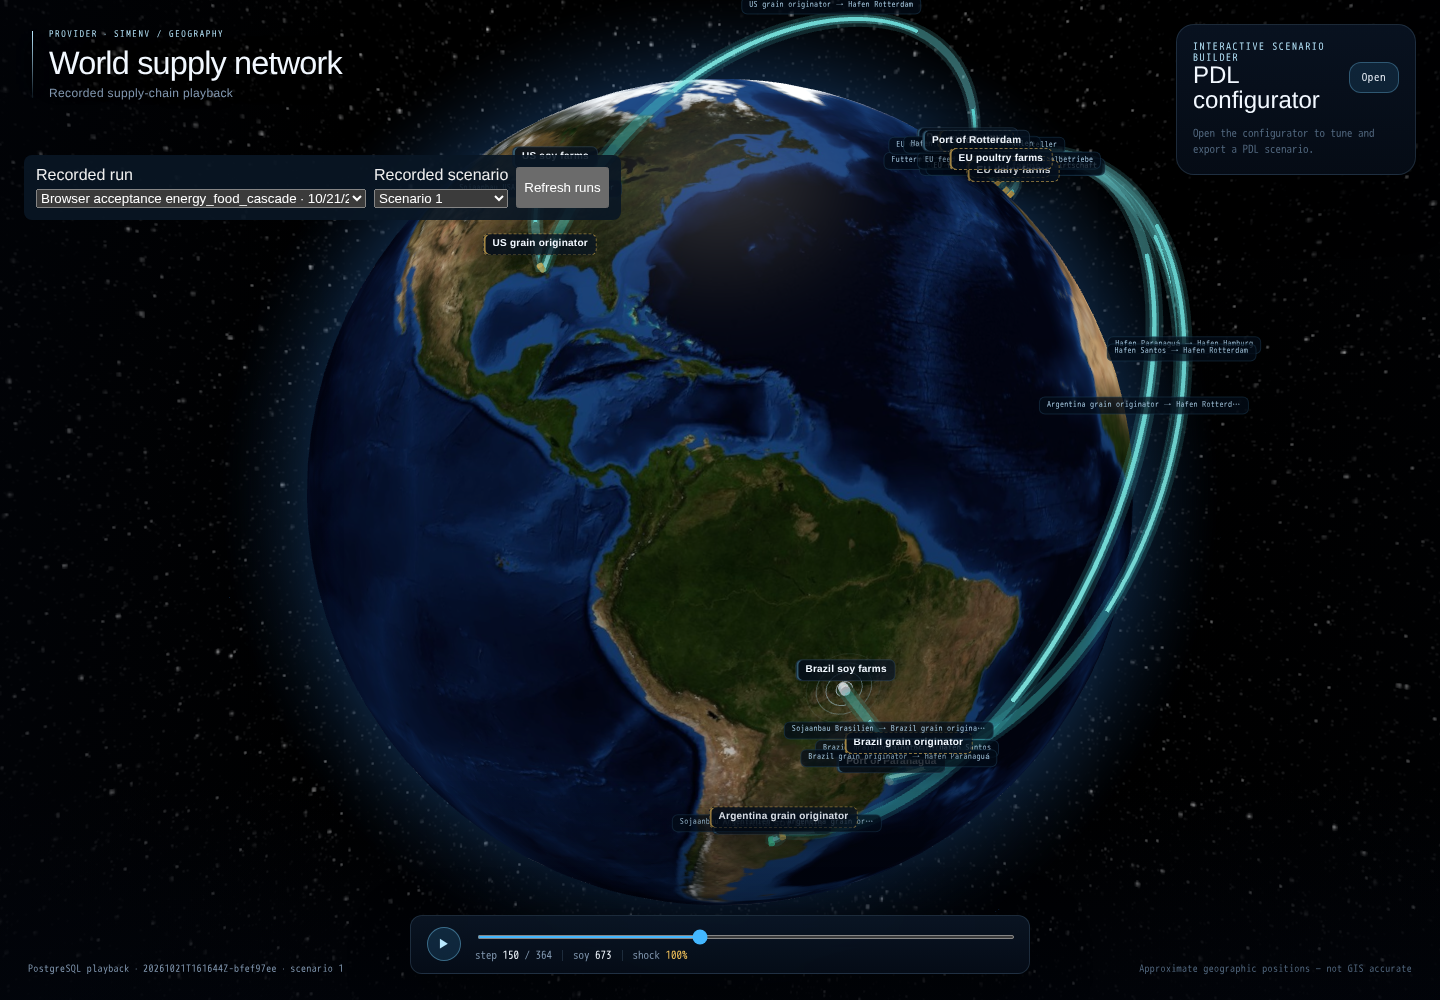
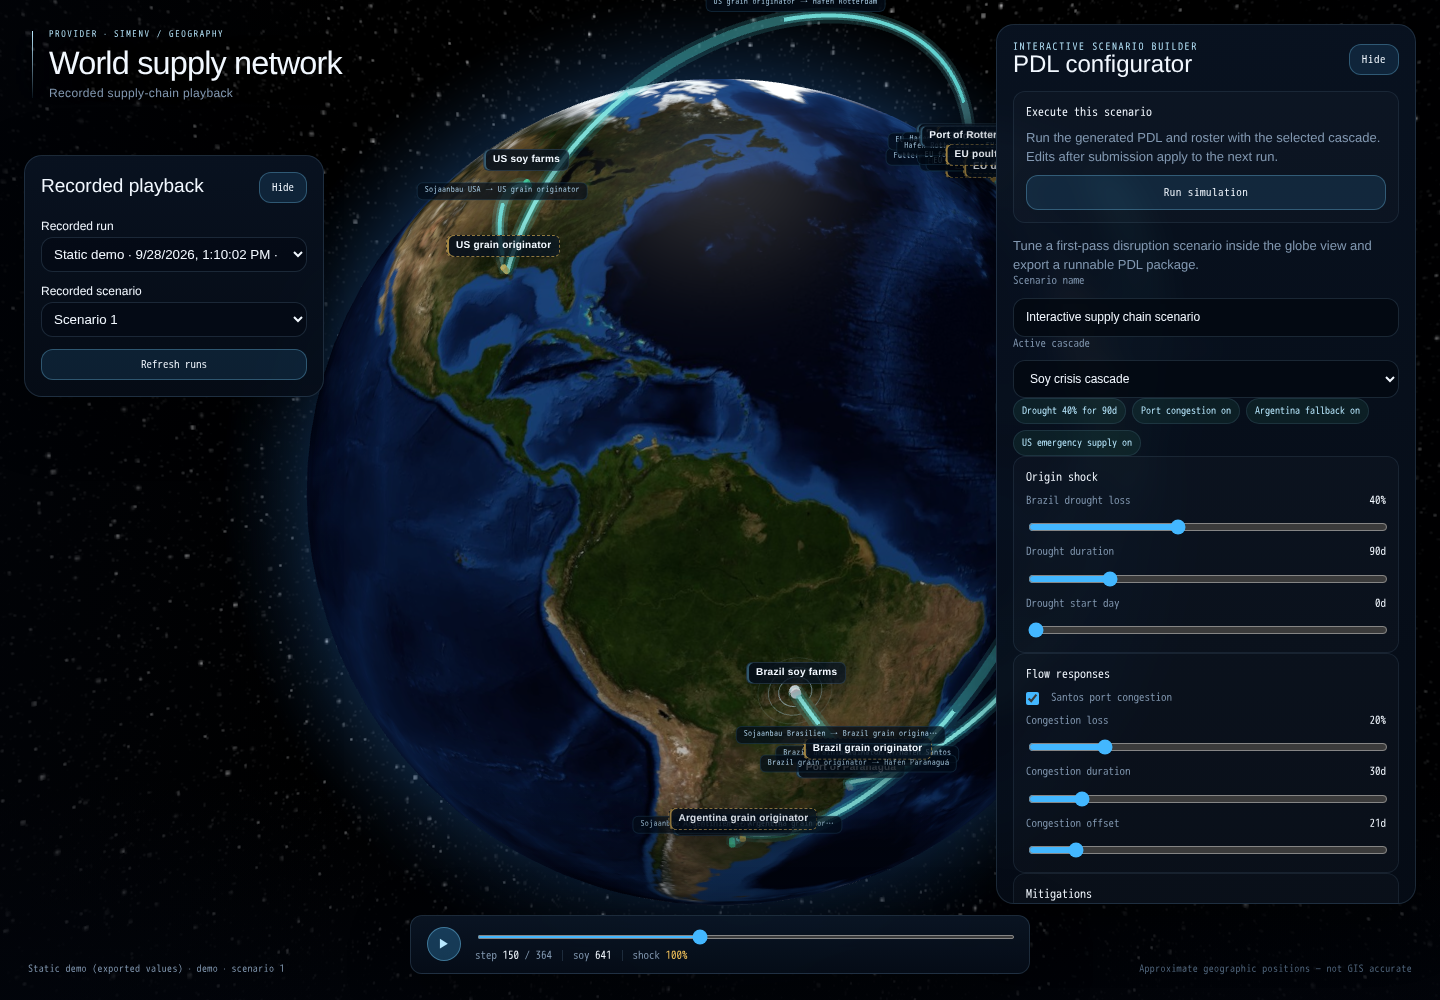
fix: move playback selection into collapsible left panel (#65)

diff --git a/web/src/playback/RunSelector.tsx b/web/src/playback/RunSelector.tsx
@@ -1,3 +1,4 @@
+import { useId, useState } from 'react'
 import type { RunSummary } from '../data/playback'
 
 interface Props {
@@ -14,27 +15,37 @@ interface Props {
 }
 
 export default function RunSelector(props: Props) {
+  const [expanded, setExpanded] = useState(true)
+  const controlsId = useId()
   const selected = props.runs.find(run => run.id === props.selected)
   return <section className="sim-run-selector" aria-label="Recorded playback">
-    <label>Recorded run
-      <select aria-label="Recorded run" value={props.selected} onChange={e => props.onRun(e.target.value)}>
-        <option value="" disabled>Select a recorded run</option>
-        {props.runs.map(run => <option key={run.id} value={run.id} disabled={!run.playable}>
-          {run.label || run.id} · {new Date(run.started_at).toLocaleString()} · {run.id}
-          {!run.playable ? ` — ${run.unavailable_reason}` : ''}
-        </option>)}
-      </select>
-    </label>
-    <label>Recorded scenario
-      <select aria-label="Recorded scenario" value={props.scenario} disabled={!selected}
-        onChange={e => props.onScenario(Number(e.target.value))}>
-        {(selected?.scenario_ids ?? [1]).map(id => <option key={id} value={id}>{id === 0 ? 'Baseline (0)' : `Scenario ${id}`}</option>)}
-      </select>
-    </label>
-    <button type="button" onClick={props.onRefresh} disabled={props.loading}>Refresh runs</button>
-    {props.hasMore && <button type="button" onClick={props.onMore} disabled={props.loading}>More runs</button>}
-    {props.loading && <span role="status">Loading recorded runs…</span>}
-    {props.error && <p role="alert">{props.error}</p>}
-    {!props.loading && !props.runs.length && !props.error && <p>No recorded runs yet.</p>}
+    <header className="sim-run-selector-header">
+      <h2>Recorded playback</h2>
+      <button type="button" aria-expanded={expanded} aria-controls={controlsId}
+        aria-label={`${expanded ? 'Hide' : 'Show'} playback selection`}
+        onClick={() => setExpanded(value => !value)}>{expanded ? 'Hide' : 'Show'}</button>
+    </header>
+    <div id={controlsId} className="sim-run-selector-controls" hidden={!expanded}>
+      <label>Recorded run
+        <select aria-label="Recorded run" value={props.selected} onChange={e => props.onRun(e.target.value)}>
+          <option value="" disabled>Select a recorded run</option>
+          {props.runs.map(run => <option key={run.id} value={run.id} disabled={!run.playable}>
+            {run.label || run.id} · {new Date(run.started_at).toLocaleString()} · {run.id}
+            {!run.playable ? ` — ${run.unavailable_reason}` : ''}
+          </option>)}
+        </select>
+      </label>
+      <label>Recorded scenario
+        <select aria-label="Recorded scenario" value={props.scenario} disabled={!selected}
+          onChange={e => props.onScenario(Number(e.target.value))}>
+          {(selected?.scenario_ids ?? [1]).map(id => <option key={id} value={id}>{id === 0 ? 'Baseline (0)' : `Scenario ${id}`}</option>)}
+        </select>
+      </label>
+      <button type="button" onClick={props.onRefresh} disabled={props.loading}>Refresh runs</button>
+      {props.hasMore && <button type="button" onClick={props.onMore} disabled={props.loading}>More runs</button>}
+      {props.loading && <span role="status">Loading recorded runs…</span>}
+      {props.error && <p role="alert">{props.error}</p>}
+      {!props.loading && !props.runs.length && !props.error && <p>No recorded runs yet.</p>}
+    </div>
   </section>
 }

diff --git a/web/src/app.css b/web/src/app.css
@@ -207,12 +207,32 @@ body {
 /* Recorded playback controls remain available with an empty database. */
 .sim-run-selector {
   position: absolute; z-index: 10; top: 155px; left: 24px;
-  display: flex; flex-wrap: wrap; gap: 8px; max-width: min(620px, calc(100vw - 490px));
-  padding: 12px; background: #091624e8; color: #eee; border-radius: 8px;
+  width: 300px; max-height: calc(100dvh - 340px); overflow-y: auto;
+  padding: 16px; border: 1px solid var(--sim-color-border);
+  border-radius: var(--sim-radius-lg);
+  background: linear-gradient(180deg, rgba(9, 19, 34, 0.92), rgba(6, 13, 24, 0.88));
+  box-shadow: var(--sim-shadow-ambient); backdrop-filter: blur(16px);
 }
+.sim-run-selector-header { display: flex; align-items: center; justify-content: space-between; gap: 12px; }
+.sim-run-selector-header h2 { margin: 0; font: 520 19px/1.1 var(--sim-font-display); }
+.sim-run-selector-controls { display: grid; gap: 12px; margin-top: 16px; }
+.sim-run-selector-controls[hidden] { display: none; }
 .sim-run-selector label { display: grid; gap: 4px; min-width: 0; }
-.sim-run-selector select { max-width: 330px; }
-.sim-playback-message { position: absolute; z-index: 11; top: 310px; left: 24px; max-width: min(620px, calc(100vw - 490px)); color: #eee; background: #091624e8; padding: 12px; }
+.sim-run-selector label, .sim-run-selector p, .sim-run-selector [role='status'] { font-size: 12px; }
+.sim-run-selector p { margin: 0; overflow-wrap: anywhere; }
+.sim-run-selector select {
+  width: 100%; min-width: 0; padding: 8px;
+  border: 1px solid var(--sim-color-border); border-radius: var(--sim-radius-md);
+  background: rgba(4, 10, 20, 0.75); color: var(--sim-color-text);
+}
+.sim-run-selector button {
+  padding: 9px 12px; border: 1px solid rgba(126, 213, 255, 0.3);
+  border-radius: var(--sim-radius-md); background: rgba(67, 183, 255, 0.12);
+  color: var(--sim-color-text); font: 600 11px/1 var(--sim-font-mono); cursor: pointer;
+}
+.sim-run-selector button:disabled { opacity: 0.55; cursor: not-allowed; }
+/* Keep playback status beside the selector, including on short desktop windows. */
+.sim-playback-message { position: absolute; z-index: 11; top: 155px; left: 340px; max-width: 300px; color: #eee; background: #091624e8; padding: 12px; }
 
 @media (max-width: 1100px) {
   /* A scrollable control flow prevents messages from covering submission controls. */
@@ -228,6 +248,7 @@ body {
     width: calc(100% - 28px); max-width: none; margin: 12px 14px;
   }
   .sim-app .sim-configurator { max-height: none; overflow: visible; }
+  .sim-app .sim-run-selector { max-height: none; }
   .sim-app .sim-run-selector select { max-width: 100%; width: 100%; }
   .sim-app .sim-run-selector label { width: 100%; }
 }

diff --git a/docs/playback.md b/docs/playback.md
@@ -1,6 +1,6 @@
 # Database playback
 
-![Database-backed simulation playback at step 150](playback-preview.png)
+![Recorded playback with the expanded left panel at step 150 (static demo)](playback-preview.png)
 
 [View or download the full-size screenshot](playback-preview.png).
 
@@ -14,6 +14,16 @@ Open **http://localhost:8080**. An empty database is supported: use the scenario
 configurator's **Run simulation** button to record the first run. On completion
 the catalogue refreshes. Select a run/scenario, then play, pause, or seek. The
 newest playable run is selected initially. Refresh and More runs browse records.
+
+Run and scenario selection are stacked in the **Recorded playback** panel on
+the left, leaving the central globe clear. The panel starts expanded. Use
+**Hide** to minimize it to its header and **Show** to reopen it; the selected
+run, scenario, and current playback are retained. On smaller screens the panel
+is part of the scrollable page.
+
+Interface examples (using the bundled static demo):
+[collapsed panel](playback-selector-collapsed.png) and
+[mobile layout](playback-selector-mobile.png).
 
 | Service | Default address | Purpose |
 | --- | --- | --- |

diff --git a/web/README.md b/web/README.md
@@ -7,6 +7,11 @@ root, then open http://localhost:8080 for recorded-run/scenario selection and
 on-demand database frames. See [Database playback](../docs/playback.md) for API
 configuration, buffering, raw-data fidelity and performance tests.
 
+The **Recorded playback** panel stacks run and scenario selection on the left
+of the globe. It starts expanded; **Hide** minimizes it to its header and
+**Show** restores the controls without changing your selection or interrupting
+playback. On smaller screens the panel follows the page's scrollable layout.
+
 `VITE_PLAYBACK_API_BASE_URL` selects database playback independently of
 `VITE_SIMENV_API_BASE_URL` for submission. Without the playback URL the frontend
 explicitly uses its static exported demo. The legacy demo/export workflow below
